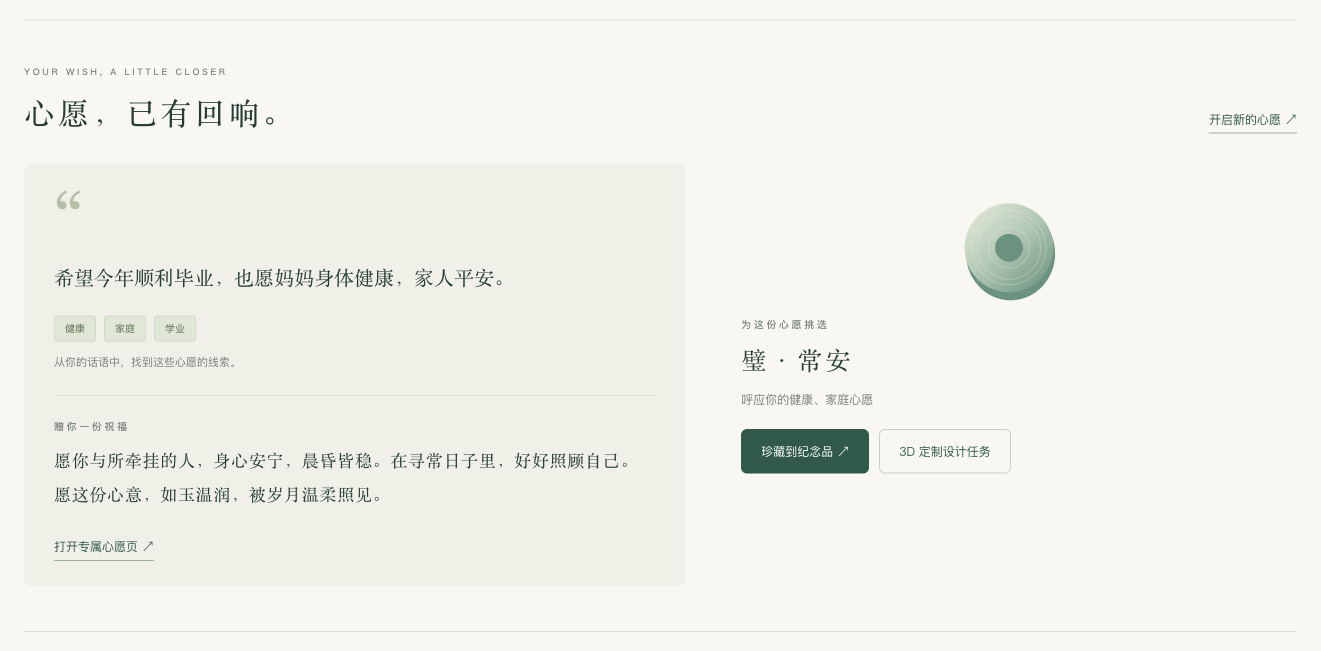
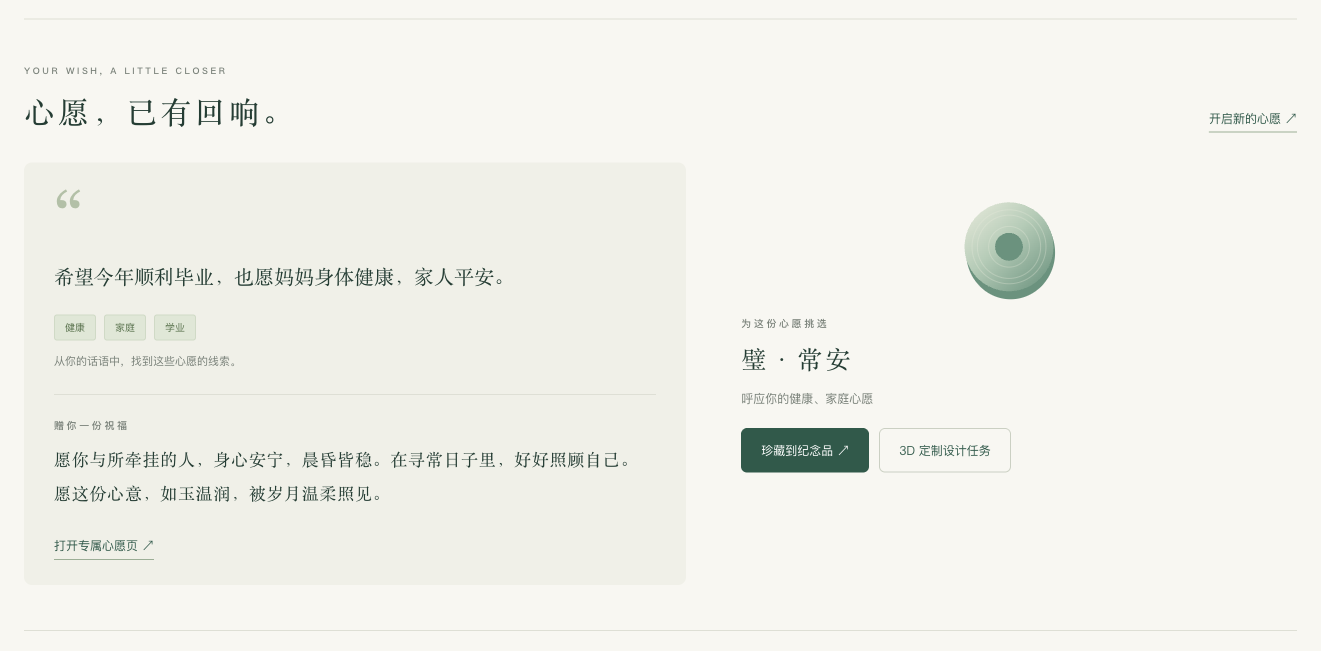
chore: add personal learning license and simplify display copy

diff --git a/docs/workflow.md b/docs/workflow.md
@@ -71,7 +71,7 @@ flowchart LR
 
 也支持 `multipart/form-data`：`venue_id/device_id/user_text/audio/retain_audio`。存在非空 `user_text` 时按用户确认后的文本处理，并明确标记 `user-text` 来源；否则音频必须经 ASR。正文最多 1000 字；请求体上限 12 MB；参考客户端录音上限 60 秒。
 
-分类输出包含 `intent`（主类别）、`labels`（类别、关键词命中数与证据）、`emotion/safety/provider/needs_confirmation`。规则命中数不作为概率。示例情绪字段也是规则标签，没有经过心理测量。
+分类输出中，`intent` 为主类别，`labels` 包含类别、关键词命中数与证据，另有 `emotion/safety/provider/needs_confirmation` 字段。规则命中数不作为概率，情绪字段也仅为规则标签。
 
 ### ASR 适配器
 
@@ -95,7 +95,7 @@ flowchart LR
 
 硬件回读成功后以 `method=pn532` 和 `readback_url` 上报，附加 `X-Device-Token`，状态升级为 `device_verified`。浏览器相应为 `method=web-nfc`、`client_verified`。两者都必须匹配服务端准备的链接；它们是设备报告，不是服务端独立检测芯片。
 
-PN532 驱动只接收默认可写的 NTAG215 CC（`E1 10 3E 00`），拒绝其他内容。写入先把 NDEF TLV 标记为空，逐页写数据，最后提交首部并回读比对。失败时保留 `registered`，可对同一心愿重试，不自动覆盖别人的标签。
+PN532 驱动只接收默认可写的 NTAG215，CC 值为 `E1 10 3E 00`。写入先把 NDEF TLV 标记为空，逐页写数据，最后提交首部并回读比对。失败时保留 `registered`，可对同一心愿重试，不自动覆盖别人的标签。
 
 ### 3D 扩展点
 

diff --git a/docs/verification.md b/docs/verification.md
@@ -1,6 +1,6 @@
 # 2.0 本地验证记录
 
-日期：2026-10-22。基线：上游 `aa0e333`；本地工作分支 `codex/wishstone-v2`。以下为本次开发实际执行的检查，不构成现场验收。
+日期：2026-10-22。验证起点为原始上游提交 `aa0e333`，2.0 开发与检查在 `codex/wishstone-v2` 分支完成。以下记录实际执行的检查，不构成现场验收。
 
 ## 已执行
 
@@ -30,3 +30,11 @@
 - 更新参考页面页头、favicon 与触屏书签图标；用实际文字演示重新捕获装置首页、匹配结果和手机纪念页。
 - README 的图片使用仓库内 `docs/assets/` 相对路径，不依赖本地绝对路径。
 - 本轮再次执行后端 19 项与录音控制 5 项测试，全部通过；另检查图片完整性、链接路径及 README 展示。
+
+
+## 许可证与展示文案补充
+
+- 添加中英文个人学习许可证，允许个人免费非商业学习与私人实验，明确禁止商业和盈利使用；第三方材料保留原许可。
+- README 改用源码公开表述，清理括号备注；场馆名称改为良渚博物馆，在简介统一说明示例性质。
+- 在隔离的数据目录重新运行文字演示并刷新三张截图，未改写已有心愿记录或原始录音。
+- 本轮重新执行后端 19 项与录音控制 5 项测试，全部通过。
